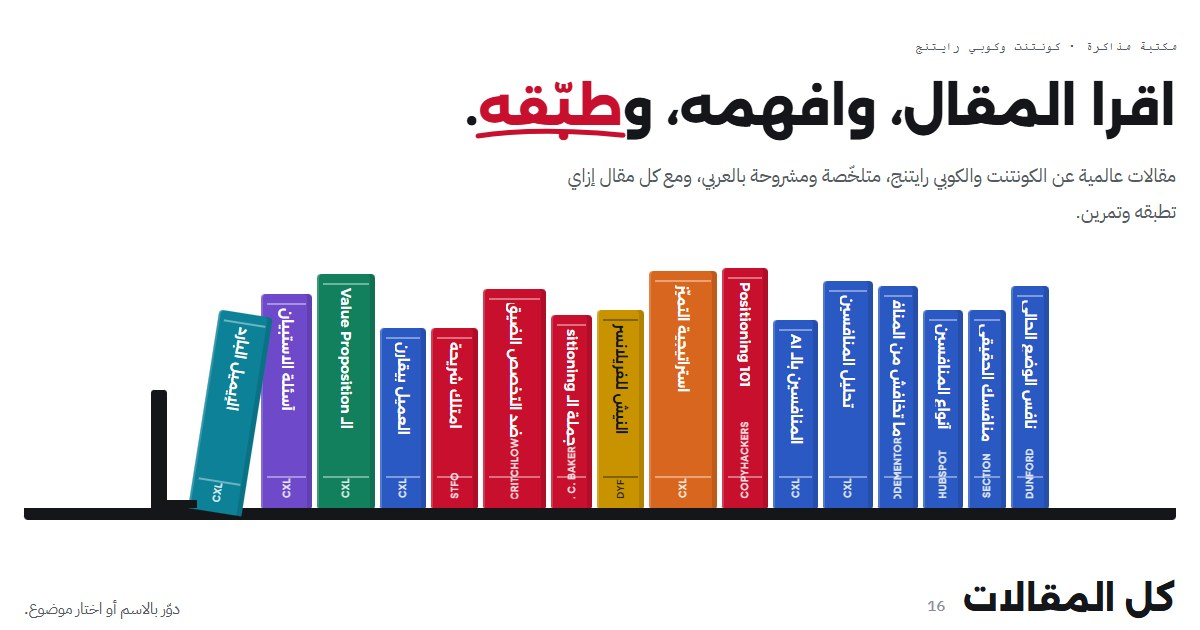
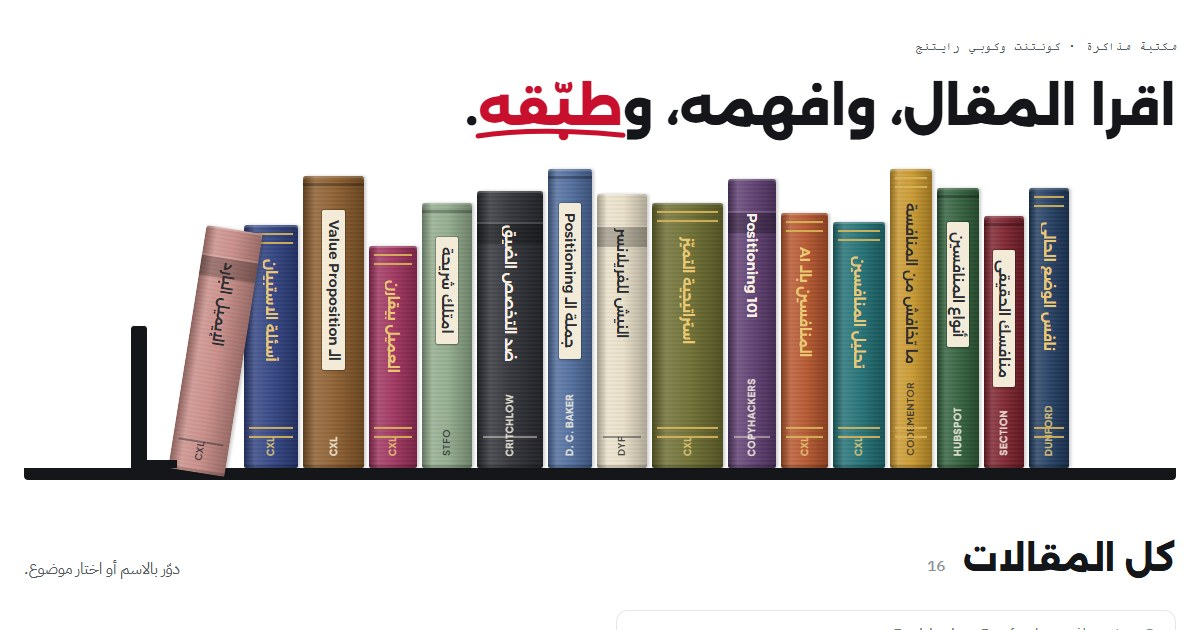
تصميم جديد: رف كتب بألوان مختلفة يتسحب ويتفتح، غلاف لكل مقال، والمقالات بس من غير لوجو

diff --git a/index.html b/index.html
@@ -32,8 +32,8 @@
 </section>
 
 <section class="shelf-wrap" id="shelf" aria-label="رف المقالات">
-<div class="shelf-scroll"><div class="shelf"><a class="spine" style="--c:#2B59C3;--t:#EAF0FC;--on:#FFFFFF;--h:86%;--w:38px" href="articles/dunford-competition.html" title="نافس الوضع الحالي والقايمة القصيرة بتاعة العميل"><span class="sp-t">نافس الوضع الحالي</span><span class="sp-s">DUNFORD</span></a><a class="spine" style="--c:#2B59C3;--t:#EAF0FC;--on:#FFFFFF;--h:77%;--w:38px" href="articles/section-real-competitors.html" title="تلات خطوات تعرف بيها منافسك الحقيقي"><span class="sp-t">منافسك الحقيقي</span><span class="sp-s">Section</span></a><a class="spine" style="--c:#2B59C3;--t:#EAF0FC;--on:#FFFFFF;--h:77%;--w:40px" href="articles/hubspot-competitor-types.html" title="خريطة المنافسين من المباشر للبديل"><span class="sp-t">أنواع المنافسين</span><span class="sp-s">HubSpot</span></a><a class="spine" style="--c:#2B59C3;--t:#EAF0FC;--on:#FFFFFF;--h:86%;--w:40px" href="articles/codementor-competition.html" title="بص على منافسينك كفريلانسر من غير ما تخاف"><span class="sp-t">ما تخافش من المنافسة</span><span class="sp-s">Codementor</span></a><a class="spine" style="--c:#2B59C3;--t:#EAF0FC;--on:#FFFFFF;--h:88%;--w:50px" href="articles/cxl-competitive-analysis.html" title="إزاي تحلل المنافسين وتطلع منهم بأفكار تختبرها"><span class="sp-t">تحليل المنافسين</span><span class="sp-s">CXL</span></a><a class="spine" style="--c:#2B59C3;--t:#EAF0FC;--on:#FFFFFF;--h:73%;--w:45px" href="articles/cxl-ai-competitive.html" title="حوّل تحليل المنافسين لعادة أسبوعية بالـ AI"><span class="sp-t">المنافسين بالـ AI</span><span class="sp-s">CXL</span></a><a class="spine" style="--c:#C8102E;--t:#FCEDEF;--on:#FFFFFF;--h:93%;--w:46px" href="articles/copyhackers-positioning-101.html" title="خمس أسئلة تبني بيها Positioning ككوبي رايتر"><span class="sp-t">Positioning 101</span><span class="sp-s">Copyhackers</span></a><a class="spine" style="--c:#D9661F;--t:#FDF0E6;--on:#FFFFFF;--h:92%;--w:68px" href="articles/cxl-differentiation.html" title="سبب حقيقي يخلّي العميل يختارك وسط ناس شبهك"><span class="sp-t">استراتيجية التميّز</span><span class="sp-s">CXL</span></a><a class="spine" style="--c:#C99300;--t:#FBF3DA;--on:#14161A;--h:77%;--w:47px" href="articles/dunn-niching.html" title="النيش قمع تسويق بتضيفه لشغلك الحالي"><span class="sp-t">النيش للفريلانسر</span><span class="sp-s">DYF</span></a><a class="spine" style="--c:#C8102E;--t:#FCEDEF;--on:#FFFFFF;--h:75%;--w:41px" href="articles/baker-positioning-statement.html" title="جملة Positioning من 12 كلمة وإزاي تختبرها"><span class="sp-t">جملة الـ Positioning</span><span class="sp-s">D. C. BAKER</span></a><a class="spine" style="--c:#C8102E;--t:#FCEDEF;--on:#FFFFFF;--h:85%;--w:63px" href="articles/critchlow-rejecting-specialization.html" title="وجهة نظر قوية كبديل للتخصص الضيق"><span class="sp-t">ضد التخصص الضيق</span><span class="sp-s">CRITCHLOW</span></a><a class="spine" style="--c:#C8102E;--t:#FCEDEF;--on:#FFFFFF;--h:70%;--w:47px" href="articles/grenier-own-a-segment.html" title="امتلك شريحة بدل ما تخترع Category جديدة"><span class="sp-t">امتلك شريحة</span><span class="sp-s">STFO</span></a><a class="spine" style="--c:#2B59C3;--t:#EAF0FC;--on:#FFFFFF;--h:70%;--w:46px" href="articles/cxl-comparison-shop.html" title="العميل هيقارنك بغيرك فاعمل المقارنة إنت الأول"><span class="sp-t">العميل بيقارن</span><span class="sp-s">CXL</span></a><a class="spine" style="--c:#12805C;--t:#E5F4EE;--on:#FFFFFF;--h:91%;--w:58px" href="articles/cxl-value-proposition.html" title="اكتب Value Proposition واضح يتفهم في خمس ثواني"><span class="sp-t">الـ Value Proposition</span><span class="sp-s">CXL</span></a><a class="spine" style="--c:#6E49C9;--t:#F0ECFB;--on:#FFFFFF;--h:83%;--w:51px" href="articles/cxl-survey-questions.html" title="إزاي تكتب أسئلة استبيان تجيب صوت العميل الحقيقي"><span class="sp-t">أسئلة الاستبيان</span><span class="sp-s">CXL</span></a><a class="spine lean" style="--c:#0C8197;--t:#E2F3F6;--on:#FFFFFF;--h:78%;--w:54px" href="articles/cxl-cold-email.html" title="إزاي تبعت Cold email يجيب رد حقيقي"><span class="sp-t">الإيميل البارد</span><span class="sp-s">CXL</span></a><span class="bookend" aria-hidden="true"></span></div></div>
-<div class="shelf-note"><p class="pen-note">كل كتاب مقال، وتخانته على قد وقت قراية الأصل</p><div class="legend"><a class="chip" style="--c:#2B59C3;--t:#EAF0FC;--on:#FFFFFF" href="index.html#competitors">المنافسين</a><a class="chip" style="--c:#C8102E;--t:#FCEDEF;--on:#FFFFFF" href="index.html#positioning">الـ Positioning</a><a class="chip" style="--c:#D9661F;--t:#FDF0E6;--on:#FFFFFF" href="index.html#differentiation">التميّز</a><a class="chip" style="--c:#12805C;--t:#E5F4EE;--on:#FFFFFF" href="index.html#value-prop">عرض القيمة</a><a class="chip" style="--c:#6E49C9;--t:#F0ECFB;--on:#FFFFFF" href="index.html#voc">الـ VoC والأبحاث</a><a class="chip" style="--c:#0C8197;--t:#E2F3F6;--on:#FFFFFF" href="index.html#outreach">التواصل البارد</a><a class="chip" style="--c:#C99300;--t:#FBF3DA;--on:#14161A" href="index.html#freelance">الفريلانس</a><a class="chip" style="--c:#3A4A66;--t:#ECEFF4;--on:#FFFFFF" href="index.html#ai">الـ AI</a></div></div>
+<div class="shelf-scroll"><div class="shelf"><a class="spine v0" style="--bk:#1F3A5F;--ink-b:#E8C978;--h:91%;--w:40px" href="articles/dunford-competition.html" title="نافس الوضع الحالي والقايمة القصيرة بتاعة العميل" data-title="نافس الوضع الحالي والقايمة القصيرة بتاعة العميل" data-src="April Dunford"><span class="sp-t">نافس الوضع الحالي</span><span class="sp-s">DUNFORD</span></a><a class="spine v1" style="--bk:#7A1F2B;--ink-b:#F7F1E3;--h:82%;--w:40px" href="articles/section-real-competitors.html" title="تلات خطوات تعرف بيها منافسك الحقيقي" data-title="تلات خطوات تعرف بيها منافسك الحقيقي" data-src="Section"><span class="sp-t">منافسك الحقيقي</span><span class="sp-s">Section</span></a><a class="spine v1" style="--bk:#2F5D3A;--ink-b:#F7F1E3;--h:91%;--w:42px" href="articles/hubspot-competitor-types.html" title="خريطة المنافسين من المباشر للبديل" data-title="خريطة المنافسين من المباشر للبديل" data-src="HubSpot"><span class="sp-t">أنواع المنافسين</span><span class="sp-s">HubSpot</span></a><a class="spine v0" style="--bk:#C9962B;--ink-b:#2B2D33;--h:97%;--w:42px" href="articles/codementor-competition.html" title="بص على منافسينك كفريلانسر من غير ما تخاف" data-title="بص على منافسينك كفريلانسر من غير ما تخاف" data-src="Codementor"><span class="sp-t">ما تخافش من المنافسة</span><span class="sp-s">Codementor</span></a><a class="spine v0" style="--bk:#1E6E73;--ink-b:#E8C978;--h:80%;--w:52px" href="articles/cxl-competitive-analysis.html" title="إزاي تحلل المنافسين وتطلع منهم بأفكار تختبرها" data-title="إزاي تحلل المنافسين وتطلع منهم بأفكار تختبرها" data-src="CXL"><span class="sp-t">تحليل المنافسين</span><span class="sp-s">CXL</span></a><a class="spine v0" style="--bk:#B5532A;--ink-b:#E8C978;--h:83%;--w:47px" href="articles/cxl-ai-competitive.html" title="حوّل تحليل المنافسين لعادة أسبوعية بالـ AI" data-title="حوّل تحليل المنافسين لعادة أسبوعية بالـ AI" data-src="CXL"><span class="sp-t">المنافسين بالـ AI</span><span class="sp-s">CXL</span></a><a class="spine v2" style="--bk:#5B3A6E;--ink-b:#F7F1E3;--h:94%;--w:48px" href="articles/copyhackers-positioning-101.html" title="خمس أسئلة تبني بيها Positioning ككوبي رايتر" data-title="خمس أسئلة تبني بيها Positioning ككوبي رايتر" data-src="Copyhackers"><span class="sp-t">Positioning 101</span><span class="sp-s">Copyhackers</span></a><a class="spine v0" style="--bk:#6B6B2F;--ink-b:#E8C978;--h:86%;--w:71px" href="articles/cxl-differentiation.html" title="سبب حقيقي يخلّي العميل يختارك وسط ناس شبهك" data-title="سبب حقيقي يخلّي العميل يختارك وسط ناس شبهك" data-src="CXL"><span class="sp-t">استراتيجية التميّز</span><span class="sp-s">CXL</span></a><a class="spine v2" style="--bk:#E9DFC8;--ink-b:#2B2D33;--h:89%;--w:50px" href="articles/dunn-niching.html" title="النيش قمع تسويق بتضيفه لشغلك الحالي" data-title="النيش قمع تسويق بتضيفه لشغلك الحالي" data-src="Double Your Freelancing"><span class="sp-t">النيش للفريلانسر</span><span class="sp-s">DYF</span></a><a class="spine v1" style="--bk:#4D6A9C;--ink-b:#F7F1E3;--h:97%;--w:44px" href="articles/baker-positioning-statement.html" title="جملة Positioning من 12 كلمة وإزاي تختبرها" data-title="جملة Positioning من 12 كلمة وإزاي تختبرها" data-src="Bristol Creative Industries"><span class="sp-t">جملة الـ Positioning</span><span class="sp-s">D. C. BAKER</span></a><a class="spine v2" style="--bk:#2B2D33;--ink-b:#F7F1E3;--h:90%;--w:66px" href="articles/critchlow-rejecting-specialization.html" title="وجهة نظر قوية كبديل للتخصص الضيق" data-title="وجهة نظر قوية كبديل للتخصص الضيق" data-src="Tom Critchlow"><span class="sp-t">ضد التخصص الضيق</span><span class="sp-s">CRITCHLOW</span></a><a class="spine v1" style="--bk:#8FA98A;--ink-b:#2B2D33;--h:86%;--w:50px" href="articles/grenier-own-a-segment.html" title="امتلك شريحة بدل ما تخترع Category جديدة" data-title="امتلك شريحة بدل ما تخترع Category جديدة" data-src="Stand The F*ck Out"><span class="sp-t">امتلك شريحة</span><span class="sp-s">STFO</span></a><a class="spine v0" style="--bk:#9E2F5B;--ink-b:#E8C978;--h:72%;--w:48px" href="articles/cxl-comparison-shop.html" title="العميل هيقارنك بغيرك فاعمل المقارنة إنت الأول" data-title="العميل هيقارنك بغيرك فاعمل المقارنة إنت الأول" data-src="CXL"><span class="sp-t">العميل بيقارن</span><span class="sp-s">CXL</span></a><a class="spine v1" style="--bk:#8A5A2B;--ink-b:#F7F1E3;--h:95%;--w:61px" href="articles/cxl-value-proposition.html" title="اكتب Value Proposition واضح يتفهم في خمس ثواني" data-title="اكتب Value Proposition واضح يتفهم في خمس ثواني" data-src="CXL"><span class="sp-t">الـ Value Proposition</span><span class="sp-s">CXL</span></a><a class="spine v0" style="--bk:#2E3F7F;--ink-b:#E8C978;--h:79%;--w:54px" href="articles/cxl-survey-questions.html" title="إزاي تكتب أسئلة استبيان تجيب صوت العميل الحقيقي" data-title="إزاي تكتب أسئلة استبيان تجيب صوت العميل الحقيقي" data-src="CXL"><span class="sp-t">أسئلة الاستبيان</span><span class="sp-s">CXL</span></a><a class="spine v2 lean" style="--bk:#C98B86;--ink-b:#2B2D33;--h:80%;--w:57px" href="articles/cxl-cold-email.html" title="إزاي تبعت Cold email يجيب رد حقيقي" data-title="إزاي تبعت Cold email يجيب رد حقيقي" data-src="CXL"><span class="sp-t">الإيميل البارد</span><span class="sp-s">CXL</span></a><span class="bookend" aria-hidden="true"></span></div></div>
+<div class="shelf-note"><p class="pen-note">دوس على أي كتاب يتسحب ويتفتح · وتخانته على قد وقت قراية الأصل</p><div class="legend"><a class="chip" style="--c:#2B59C3;--t:#EAF0FC;--on:#FFFFFF" href="index.html#competitors">المنافسين</a><a class="chip" style="--c:#C8102E;--t:#FCEDEF;--on:#FFFFFF" href="index.html#positioning">الـ Positioning</a><a class="chip" style="--c:#D9661F;--t:#FDF0E6;--on:#FFFFFF" href="index.html#differentiation">التميّز</a><a class="chip" style="--c:#12805C;--t:#E5F4EE;--on:#FFFFFF" href="index.html#value-prop">عرض القيمة</a><a class="chip" style="--c:#6E49C9;--t:#F0ECFB;--on:#FFFFFF" href="index.html#voc">الـ VoC والأبحاث</a><a class="chip" style="--c:#0C8197;--t:#E2F3F6;--on:#FFFFFF" href="index.html#outreach">التواصل البارد</a><a class="chip" style="--c:#C99300;--t:#FBF3DA;--on:#14161A" href="index.html#freelance">الفريلانس</a><a class="chip" style="--c:#3A4A66;--t:#ECEFF4;--on:#FFFFFF" href="index.html#ai">الـ AI</a></div></div>
 </section>
 
 <section class="section" id="articles"><div class="section-head"><h2>كل المقالات <span class="mono" data-count>16</span></h2><p>دوّر بالاسم أو اختار موضوع.</p></div>

diff --git a/assets/site.css b/assets/site.css
@@ -74,15 +74,47 @@ p,ul,ol,dl,figure,blockquote{margin:0}
 .shelf::after{content:"";position:absolute;inset-inline:18px;bottom:-26px;height:14px;background:radial-gradient(closest-side,rgba(20,22,26,.18),transparent);pointer-events:none}
 .bookend{flex:none;width:16px;height:46%;background:var(--ink);border-radius:3px 3px 0 0;margin-inline-start:16px;position:relative}
 .bookend::before{content:"";position:absolute;bottom:0;inset-inline-end:16px;width:30px;height:8px;background:var(--ink)}
-.spine{--h:85%;--w:44px;position:relative;flex:none;width:var(--w);height:var(--h);background:var(--c);color:var(--on);border-radius:4px 4px 1px 1px;text-decoration:none;display:flex;flex-direction:column;align-items:center;justify-content:space-between;padding:14px 0 10px;box-shadow:inset -5px 0 0 rgba(0,0,0,.12),inset 2px 0 0 rgba(255,255,255,.18);transition:transform .2s ease}
-.spine::before,.spine::after{content:"";position:absolute;inset-inline:6px;height:2px;background:currentColor;opacity:.4}
-.spine::before{top:9px}
-.spine::after{bottom:30px}
-.spine:hover,.spine:focus-visible{transform:translateY(-14px)}
+.spine{--h:85%;--w:44px;--bk:#1F3A5F;--ink-b:#F7F1E3;position:relative;flex:none;width:var(--w);height:var(--h);color:var(--ink-b);text-decoration:none;display:flex;flex-direction:column;align-items:center;justify-content:space-between;padding:18px 0 12px;border-radius:3px 3px 2px 2px;cursor:pointer;
+  background:linear-gradient(90deg,rgba(0,0,0,.30) 0%,rgba(255,255,255,.16) 20%,rgba(255,255,255,.05) 52%,rgba(0,0,0,.24) 100%),repeating-linear-gradient(0deg,rgba(255,255,255,.035) 0 2px,rgba(0,0,0,.035) 2px 4px),var(--bk);
+  box-shadow:2px 0 3px rgba(0,0,0,.2),inset 0 2px 0 rgba(255,255,255,.18),inset 0 -3px 0 rgba(0,0,0,.18);transition:transform .22s cubic-bezier(.2,.8,.2,1),box-shadow .22s}
+.spine:hover,.spine:focus-visible{transform:translateY(-14px);box-shadow:2px 6px 10px rgba(0,0,0,.25),inset 0 2px 0 rgba(255,255,255,.18)}
+.spine.pulled{transform:translateY(-40px);box-shadow:0 18px 24px rgba(0,0,0,.3)}
 .spine.lean{transform:rotate(9deg);transform-origin:bottom left;margin-inline-start:14px}
 .spine.lean:hover,.spine.lean:focus-visible{transform:rotate(9deg) translateY(-14px)}
-.sp-t{writing-mode:vertical-rl;font-family:var(--f-display);font-weight:600;font-size:14px;line-height:1.2;white-space:nowrap;overflow:hidden;max-height:calc(100% - 44px)}
-.sp-s{font-family:var(--f-latin);font-size:9.5px;font-weight:700;letter-spacing:.04em;opacity:.85;text-transform:uppercase;writing-mode:vertical-rl;transform:rotate(180deg);max-height:96px;overflow:hidden;white-space:nowrap}
+.spine.lean.pulled{transform:rotate(0) translateY(-40px)}
+/* النوع 0: خطين دهبي فوق وتحت */
+.spine.v0::before,.spine.v0::after{content:"";position:absolute;inset-inline:5px;height:7px;border-block:2px solid #D8B45A;opacity:.9}
+.spine.v0::before{top:8px}
+.spine.v0::after{bottom:30px}
+/* النوع 1: ورقة عنوان ملزوقة */
+.spine.v1 .sp-t{background:#F3EBD8;color:#2B2D33;padding:10px 3px;border-radius:2px;box-shadow:0 0 0 1px rgba(0,0,0,.18),0 1px 2px rgba(0,0,0,.2)}
+.spine.v1::before{content:"";position:absolute;inset-inline:0;top:7px;height:3px;background:rgba(0,0,0,.25)}
+/* النوع 2: حزام لون غامق فوق */
+.spine.v2::before{content:"";position:absolute;inset-inline:0;top:12%;height:20px;background:rgba(0,0,0,.24);box-shadow:0 -2px 0 rgba(255,255,255,.12)}
+.spine.v2::after{content:"";position:absolute;inset-inline:6px;bottom:30px;height:2px;background:currentColor;opacity:.45}
+.sp-t{position:relative;writing-mode:vertical-rl;font-family:var(--f-display);font-weight:600;font-size:14px;line-height:1.2;white-space:nowrap;overflow:hidden;max-height:calc(100% - 46px);margin-top:16px}
+.sp-s{position:relative;font-family:var(--f-latin);font-size:9.5px;font-weight:700;letter-spacing:.05em;opacity:.85;text-transform:uppercase;writing-mode:vertical-rl;transform:rotate(180deg);max-height:96px;overflow:hidden;white-space:nowrap}
+
+/* الكتاب وهو بيتسحب ويتفتح */
+.book-backdrop{position:fixed;inset:0;z-index:50;background:rgba(20,22,26,.42);opacity:0;transition:opacity .45s}
+.book-backdrop.on{opacity:1}
+.book-fly{position:fixed;z-index:51;perspective:1600px;transition:left .55s cubic-bezier(.2,.8,.2,1),top .55s cubic-bezier(.2,.8,.2,1),width .55s cubic-bezier(.2,.8,.2,1),height .55s cubic-bezier(.2,.8,.2,1)}
+.bf-page{position:absolute;inset:0;background:#FBF7EE;border-radius:2px 6px 6px 2px;box-shadow:0 30px 60px -20px rgba(0,0,0,.6);padding:30px 26px;display:grid;align-content:center;gap:14px;text-align:center;color:#2B2D33;opacity:0;transition:opacity .2s .35s;background-image:repeating-linear-gradient(transparent 0 31px,rgba(43,45,51,.07) 31px 32px)}
+.book-fly.center .bf-page{opacity:1}
+.bf-page small{font-family:var(--f-latin);font-size:12px;font-weight:700;letter-spacing:.06em;color:var(--ink-3);text-transform:uppercase}
+.bf-page b{font-family:var(--f-display);font-size:24px;line-height:1.45}
+.bf-page span{font-family:var(--f-pen);color:var(--red);font-size:20px}
+.bf-cover{position:absolute;inset:0;transform-origin:right center;transform-style:preserve-3d;transition:transform .75s cubic-bezier(.55,.05,.3,1)}
+.book-fly.open .bf-cover{transform:rotateY(165deg)}
+.bf-front,.bf-back{position:absolute;inset:0;backface-visibility:hidden;-webkit-backface-visibility:hidden;border-radius:2px 6px 6px 2px}
+.bf-front{color:var(--ink-b);padding:22px 20px;display:flex;flex-direction:column;justify-content:space-between;align-items:center;text-align:center;
+  background:linear-gradient(90deg,rgba(255,255,255,.05),rgba(0,0,0,.18)),repeating-linear-gradient(0deg,rgba(255,255,255,.035) 0 2px,rgba(0,0,0,.035) 2px 4px),var(--bk);
+  box-shadow:inset 10px 0 0 rgba(0,0,0,.16),inset 0 0 0 10px transparent,0 24px 50px -18px rgba(0,0,0,.6)}
+.bf-front::before{content:"";position:absolute;inset:14px;border:2px solid #D8B45A;border-radius:2px;opacity:.75;pointer-events:none}
+.bf-front b{position:relative;font-family:var(--f-display);font-size:24px;line-height:1.4;margin-top:20%;opacity:0;transition:opacity .25s .3s}
+.bf-front small{position:relative;font-family:var(--f-latin);font-size:11px;font-weight:700;letter-spacing:.08em;text-transform:uppercase;opacity:0;transition:opacity .25s .3s}
+.book-fly.center .bf-front b,.book-fly.center .bf-front small{opacity:1}
+.bf-back{transform:rotateY(180deg);background:#F3EBD8;box-shadow:inset -10px 0 0 rgba(0,0,0,.06)}
 .shelf-note{display:flex;justify-content:space-between;align-items:flex-start;gap:12px;flex-wrap:wrap}
 .shelf-note .pen-note{font-size:19px}
 .legend{display:flex;flex-wrap:wrap;gap:6px}
@@ -225,7 +257,8 @@ p,ul,ol,dl,figure,blockquote{margin:0}
   .hero{padding-block:30px 36px}
   .hero h1{font-size:38px}
   .hero .lede{font-size:17px}
-  .shelf{height:250px;justify-content:flex-start}
+  .shelf{height:290px;justify-content:flex-start}
+  .sp-t{font-size:13px}
   .section{padding-block:40px}
   .section-head h2{font-size:27px}
   .grid,.terms{grid-template-columns:minmax(0,1fr)}

diff --git a/assets/site.js b/assets/site.js
@@ -46,6 +46,63 @@
     window.addEventListener("hashchange", function(){ fromHash(true); });
   }
 
+  /* الرف: الكتاب يتسحب ويتفتح وبعدين يفتح المقال */
+  var reduce = window.matchMedia && window.matchMedia("(prefers-reduced-motion: reduce)").matches;
+  function cleanupBooks(){
+    document.querySelectorAll(".book-fly,.book-backdrop").forEach(function(x){ x.remove(); });
+    document.querySelectorAll(".spine.pulled").forEach(function(s){ s.classList.remove("pulled"); s.style.visibility = ""; });
+  }
+  function openBook(a){
+    if (document.querySelector(".book-fly")) return;
+    var href = a.getAttribute("href");
+    var cs = getComputedStyle(a);
+    a.classList.add("pulled");
+    setTimeout(function(){
+      var r = a.getBoundingClientRect();
+      var back = document.createElement("div"); back.className = "book-backdrop";
+      var fly = document.createElement("div"); fly.className = "book-fly";
+      fly.style.setProperty("--bk", cs.getPropertyValue("--bk"));
+      fly.style.setProperty("--ink-b", cs.getPropertyValue("--ink-b"));
+      fly.style.left = r.left + "px"; fly.style.top = r.top + "px";
+      fly.style.width = r.width + "px"; fly.style.height = r.height + "px";
+      var page = document.createElement("div"); page.className = "bf-page";
+      var ps = document.createElement("small"); ps.textContent = a.dataset.src || "";
+      var pb = document.createElement("b"); pb.textContent = a.dataset.title || "";
+      var pn = document.createElement("span"); pn.textContent = "بيتفتح…";
+      page.append(ps, pb, pn);
+      var cover = document.createElement("div"); cover.className = "bf-cover";
+      var front = document.createElement("div"); front.className = "bf-front";
+      var fb = document.createElement("b"); fb.textContent = a.dataset.title || "";
+      var fs = document.createElement("small"); fs.textContent = a.dataset.src || "";
+      front.append(fb, fs);
+      var backFace = document.createElement("div"); backFace.className = "bf-back";
+      cover.append(front, backFace);
+      fly.append(page, cover);
+      document.body.append(back, fly);
+      a.style.visibility = "hidden";
+      var w = Math.min(320, window.innerWidth * 0.72), h = Math.min(w * 1.42, window.innerHeight * 0.78);
+      w = h / 1.42;
+      fly.getBoundingClientRect();
+      requestAnimationFrame(function(){
+        back.classList.add("on");
+        fly.classList.add("center");
+        fly.style.left = (window.innerWidth - w) / 2 + "px";
+        fly.style.top = (window.innerHeight - h) / 2 + "px";
+        fly.style.width = w + "px"; fly.style.height = h + "px";
+      });
+      setTimeout(function(){ fly.classList.add("open"); }, 600);
+      setTimeout(function(){ location.href = href; }, 1300);
+    }, 230);
+  }
+  document.querySelectorAll(".spine").forEach(function(a){
+    a.addEventListener("click", function(ev){
+      if (reduce || ev.metaKey || ev.ctrlKey || ev.shiftKey || ev.altKey || ev.button !== 0) return;
+      ev.preventDefault();
+      openBook(a);
+    });
+  });
+  window.addEventListener("pageshow", cleanupBooks);
+
   /* نسخ لينك الصفحة */
   document.querySelectorAll("[data-copy]").forEach(function(b){
     b.addEventListener("click", function(){
